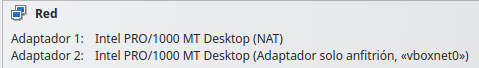
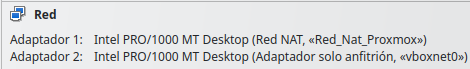
Modificaciones nuevas implementadas para la fase 3 y avance de la fase 4 (a acabar en la siguiente sesion el martes 24 de noviembre)

Changed region(s): [[0.0, 0.0, 1.0, 1.0]]

diff --git a/docs/03-instalacion-proxmox.md b/docs/03-instalacion-proxmox.md
@@ -2,20 +2,31 @@
 
 ## Objetivo
 
-El objetivo de esta fase es instalar Proxmox VE dentro de una VM de VirtualBox, configurando la RAM, CPU, adaptadores RED correspondientes siguiendo el diagrama de red creado en la fase anterior y el almacenamiento .vdi.
-Para finalmente acceder a la web proxmox por la ip del nodo de proxmox desde el buscador.
+El objetivo de la fase 3 es instalar Proxmox VE dentro de una VM de VirtualBox, configurando la RAM, CPU, adaptadores RED correspondientes siguiendo el diagrama de red creado en la fase anterior y el almacenamiento .vdi. Para finalmente acceder a la web proxmox por la ip del nodo de proxmox desde el buscador.
 
 ## Procedimiento
 
+### Fase 3. Instalacion de Proxmox
+
 1-Instalar la iso de proxmox 9.2.2 y montarla en VirtualBox con sistema operativo Linux.
 
-2-Configurar los recursos de la VM (CPU, RAM, ALMACENAMIENTO) y sus adaptadores de red correspondientes (NAT y adaptador solo anfitrion).
+2-Desde VirtualBox, configurar los recursos de la VM (CPU de 2 nucleos, RAM de 8GB, ALMACENAMIENTO de 80GB) y sus adaptadores de red correspondientes (NAT y adaptador solo anfitrion).Una vez creada la mquina Proxmox activo la opcion Nested VT-x/AMD-V para poder realizar virtualizacion anidada, ademas el controlador SATA esta conectado al disco con la opcion virtio-scsi.
 
-3-Dentro de la VM Proxmox, configurar la red del laboratorio: Desde la consola de la VM se edita /etc/network/interfaces para añadir vmbr1 sobre nic0 con 192.168.56.10/24 y se aplica con ifreload -a, vmbr1 hace de gateway de los invitados, con reenvío de IP y NAT hacia vmbr0, tal como indica la tabla.
+3-Dentro de la VM Proxmox, configurar la red del laboratorio: Desde la consola de la VM se edita /etc/network/interfaces para añadir vmbr1 sobre nic0 con 192.168.56.10/24 y se aplica con ifreload -a, vmbr1 hace de gateway de los invitados, con reenvío de IP y Red NAT hacia vmbr0, tal como indica la tabla.
 
 4-Acceder al panel web de Proxmox mediante la ip configurada: Desde el navegador del equipo anfitrión: https://192.168.56.10:8006 (usuario root, reino «Linux PAM»)
 
+
+### Fase 4. Configuración base del nodo
+
+1- Reviso donde se guardara cada cosa desde el panel de proxmox y desde la maquina virtual:
+    En el panel de proxmox, abro Datacenter > Storage y reviso los almacenamientos disponibles. Aparecen 2, local (tipo Directory, con 23,7 GB libres y 4GB libres, donde se guardan imagenes ISO, plantillas CT y backups segun la configuracion), y local-lvm (tipo LVM-thin, con 30 GiB libres y 0 % usado, donde se guardan discos de VM y volvmenes CT).
+    En la maquina virtual de proxmox uso los comandos pvesm status (para ver los almacenamintos disponibles y su estado) y df -h (para ver el espacio total y el espacio disponible del sistema de archivos). 
+
+
 ## Comandos usados
+
+### Fase 3. Instalacion de Proxmox
 
 ```bash
 ip -br link
@@ -33,19 +44,37 @@ hostname -f
 reboot
 ```
 
+### Fase 4. Configuración base del nodo
+
+```bash
+pvesm status
+
+df -h
+
+ip route replace default via 10.0.2.1 dev vmbr0
+nano /etc/network/interfaces
+```
+
 ## Evidencias
+
+### Fase 3. Instalacion de Proxmox
+
 
 **Recursos y Red:**
 
 ![Procesador](/evidencias/capturas-o-salidas/s03-Procesador.png)
 
+![CPU](/evidencias/capturas-o-salidas/s03_CPU.png)
+
 ![Almacenamiento](/evidencias/capturas-o-salidas/s03-Almacenamiento.png)
+
+![Disco](/evidencias/capturas-o-salidas/s03-Disco.png)
 
 ![RAM](/evidencias/capturas-o-salidas/s03-RAM.png)
 
 ![Adaptadores](/evidencias/capturas-o-salidas/s03-Adaptadores.png)
 
-![Interfaces](/evidencias/capturas-o-salidas/s03-interfaces.png)
+![Interfaces](/evidencias/capturas-o-salidas/s04-interfaces.png)
 
 **Salida de: hostnamectl, ip -br addr, pveversion, df -h**
 
@@ -62,9 +91,21 @@ reboot
 ![Panel proxmox](/evidencias/capturas-o-salidas/s03-Panel_proxmox.png)
 
 
+### Fase 4. Configuracion base del nodo
+
+**Almacenamiento**
+
+![storage](/evidencias/capturas-o-salidas/s04-Storage.png)
+
+![pvesm](/evidencias/capturas-o-salidas/s04-pvesm.png)
+
+![df-h](/evidencias/capturas-o-salidas/s04-df-h.png)
+
+
+
 ## Incidencias
 
-**Nulas**
+He tenido un error en mi Proxmox porque no tenia acceso a internet debido a que el gateway estaba configurado para la ip 10.0.2.2 en vmbr0, he cambiado la gateway a la 10.0.2.1 y ya tiene acceso a internet. Para cambiarlo he ejecutado ip route replace default via 10.0.2.1 dev vmbr0 para establecer la ruta getaway por defecto, y he cambiado el archivo de configuracion de interfaces de red mediante nano /etc/network/interfaces.
 
 ## Conclusion
 

diff --git a/docs/02-diagrama-red.md b/docs/02-diagrama-red.md
@@ -12,10 +12,10 @@ Diseñar la red del laboratorio antes de instalar servicios,definiendo: el nombr
 | Servidor ASO | srv-aso | 192.168.56.13/24 | Servicio principal | Maquina Virtual |
 | Cliente | cli-linux| 192.168.56.23/24 | Pruebas | Maquina Virtual |
 | Interfaz de gestión | enp0s3 | 192.168.56.1/24 | Gestion | Interfaz de Maquina Virtual |
-| Bridge de Proxmox | vmbr0 | 10.0.2.15/24 | Red exterior del nodo, gateway 10.0.2.2 | Interfaz bridge de Proxmox |
+| Bridge de Proxmox | vmbr0 | 10.0.2.15/24 | Red exterior del nodo, gateway 10.0.2.1 | Interfaz bridge de Proxmox |
 | Bridge de Proxmox | vmbr1 | 192.168.56.10/24 | Administración y gateway de los invitados | Interfaz bridge de Proxmox |
 | Red o VLAN de laboratorio | Laboratorio | 192.168.56.0/24, Sin VLAN | Red interna de pruebas entre nodo, srv-aso y cli-linux | Red de Virtual Box |
-| Gateway y DNS | Gateaway y DNS | Gateaway: 192.168.56.10; nodo: gateaway 10.0.2.2; DNSNATVirtualbox: 10.0.2.3; DNS: Google 8.8.8.8 | Salida a internet | Servidor DNS |
+| Gateway y DNS | Gateaway y DNS | Gateaway: 192.168.56.10; nodo: gateaway 10.0.2.1; DNSNATVirtualbox: 10.0.2.3; DNS: Google 8.8.8.8 | Salida a internet | Servidor DNS |
 | Puertos necesarios | 8006/tcp , 22/tcp | - | Web de Proxmox, conexion SSH | Proxmox y SSH  |
 
 ## Diagrama de red
@@ -28,6 +28,6 @@ Diseñar la red del laboratorio antes de instalar servicios,definiendo: el nombr
 
 ## Conclusion
 
-Finalmente, tras completar la tabla, asi es como deberia de ser la estructura de red que seguira mi proyecto intermodular, en principio, sin errores y funcional. Ahora solo queda aplicarlo cuando cree el Proxmox y corregir posibles incidencia que ocurran dutrante el proceso.
+Finalmente, tras completar la tabla, asi es como deberia de ser la estructura de red que seguira mi proyecto intermodular, en principio, sin errores y funcional. Ahora solo queda aplicarlo cuando cree el Proxmox y corregir posibles incidencia que ocurran dutrante el proceso. 
 
 [Volver al indice](../README.md)
